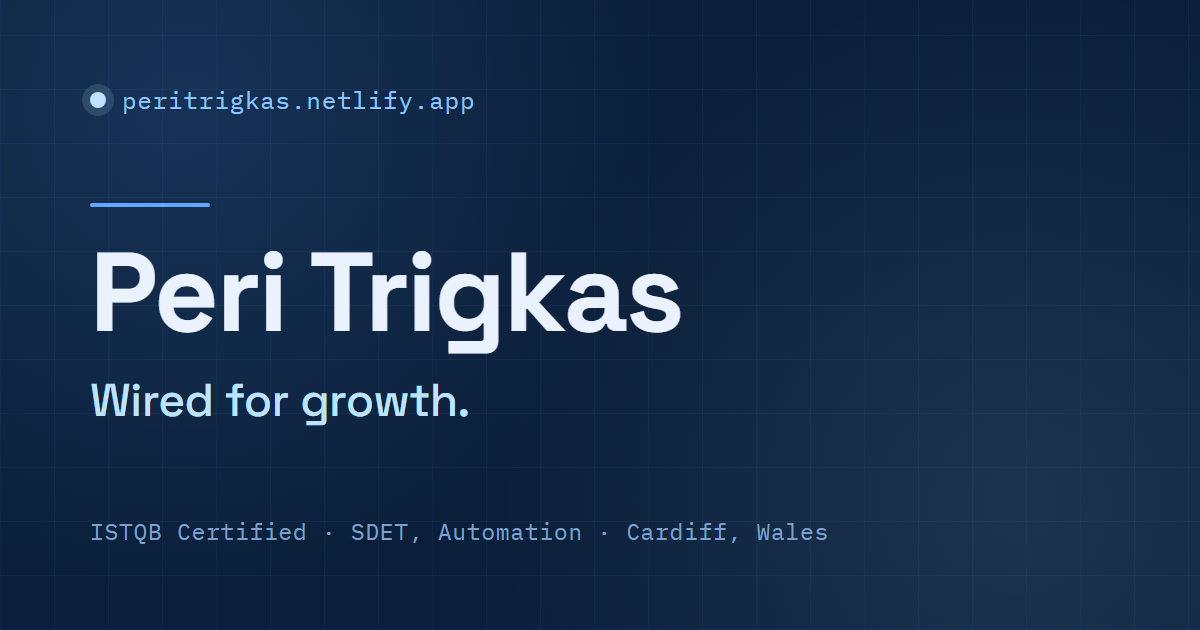
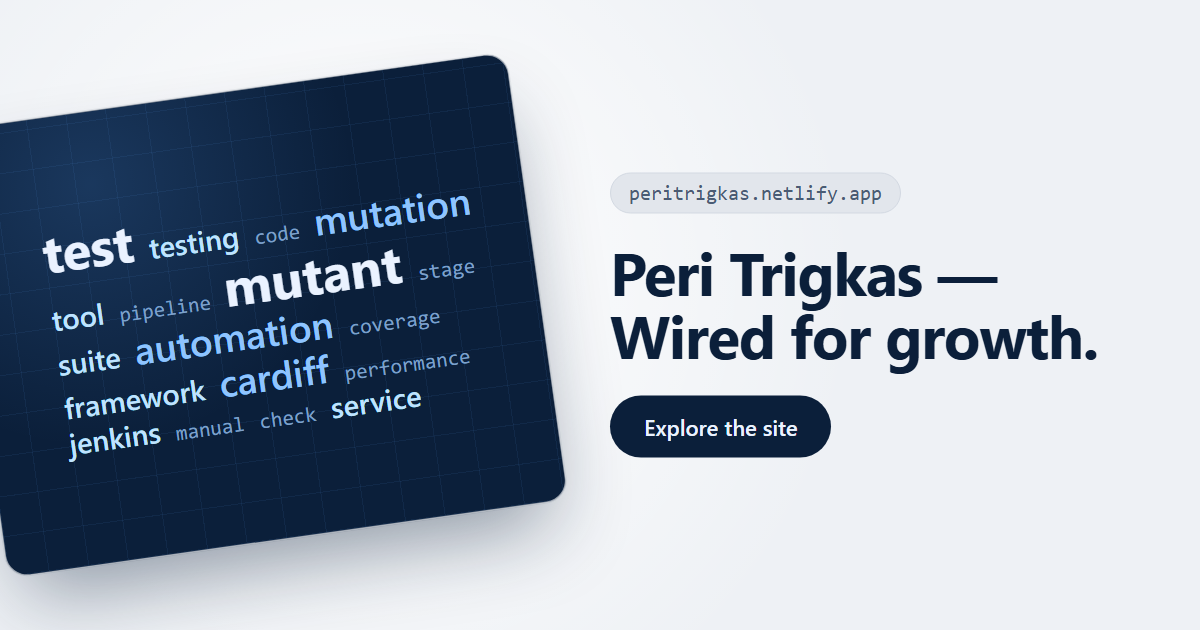
Generate the share card from the site's most-used words
Replaces the static default OG image with a card rendered by a new
build-og script: a word cloud built dynamically from the most frequent
meaningful words across index.html and every post, set in the
opengraph.xyz-style framed layout. Run with `npm run build-og`
(needs headless Chrome/Edge; honours CHROME_PATH).

Claude-Session: https://claude.ai/code/session_015wW7dw16dp6jFcBWztvMvX

diff --git a/scripts/build-og.js b/scripts/build-og.js
@@ -1,0 +1,177 @@
+/*
+ * Regenerates the default social-share card (img/og-default.png).
+ *
+ * The word cloud is built dynamically from the most frequent meaningful words
+ * across index.html and every post in /posts, so the card reflects whatever the
+ * site is actually about at build time.
+ *
+ * Rasterising needs headless Chrome. The script looks for it in the usual
+ * places and honours the CHROME_PATH env var. If none is found it still writes
+ * the intermediate HTML (scripts/.og-card.html) and prints how to finish.
+ *
+ * Usage: npm run build-og
+ */
+const fs = require('fs');
+const path = require('path');
+const { execFileSync } = require('child_process');
+
+const ROOT = path.resolve(__dirname, '..');
+const POSTS_DIR = path.join(ROOT, 'posts');
+const OUT_PNG = path.join(ROOT, 'img', 'og-default.png');
+const TMP_HTML = path.join(__dirname, '.og-card.html');
+const WORD_COUNT = 18;
+const SITE_HOST = 'peritrigkas.netlify.app';
+const HEADLINE = 'Peri Trigkas — Wired for growth.';
+const BUTTON_TEXT = 'Explore the site';
+
+// Words that are common but say nothing about the subject.
+const STOP_WORDS = new Set(
+  (
+    'the a an and or but if then else of to in on at for with by from as is are was ' +
+    'were be been being it its this that these those i you he she they we my your his ' +
+    'her their our me him us them so not no yes do does did done have has had having ' +
+    'will would can could should may might must shall about into over under out up ' +
+    'down off than too very just also more most some any all each every other another ' +
+    'such own same few new like via still per across around back onto what which who ' +
+    'whom whose when where why how there here one two three actually genuinely really ' +
+    'something anything thing things rather instead before after while because during ' +
+    'through against between within without been being able well much many lot lots ' +
+    'kind sort stuff bit way ways going gets getting goes went come came make makes ' +
+    'made take takes took need needs first second next last time times year years ' +
+    'work works working worth good great better best usually often sometimes always ' +
+    'never once nine says said tell told wrote written read seen saw look looks looking ' +
+    'real actual thats theres youre dont wont cant havent isnt everything nothing ' +
+    'someone anyone everyone somewhere anywhere everywhere point points part parts'
+  ).split(/\s+/)
+);
+
+function collectText() {
+  let text = '';
+  const idx = fs.readFileSync(path.join(ROOT, 'index.html'), 'utf-8');
+  text += ' ' + idx
+    .replace(/<script[\s\S]*?<\/script>/g, ' ')
+    .replace(/<style[\s\S]*?<\/style>/g, ' ')
+    .replace(/<[^>]+>/g, ' ');
+  for (const file of fs.readdirSync(POSTS_DIR).filter((f) => f.endsWith('.md'))) {
+    text += ' ' + fs.readFileSync(path.join(POSTS_DIR, file), 'utf-8').replace(/^---[\s\S]*?---/, ' ');
+  }
+  return text;
+}
+
+function topWords(text, limit) {
+  const counts = new Map();
+  const normalised = text.toLowerCase().replace(/ci\/cd/g, 'cicd').replace(/[^a-z\s-]/g, ' ');
+  for (let word of normalised.split(/\s+/)) {
+    word = word.replace(/^-+|-+$/g, '');
+    if (word.length < 4 || STOP_WORDS.has(word)) continue;
+    counts.set(word, (counts.get(word) || 0) + 1);
+  }
+  // Fold simple plurals into their singular ("tests" -> "test").
+  for (const word of [...counts.keys()]) {
+    if (word.endsWith('s') && counts.has(word.slice(0, -1))) {
+      counts.set(word.slice(0, -1), counts.get(word.slice(0, -1)) + counts.get(word));
+      counts.delete(word);
+    }
+  }
+  return [...counts.entries()]
+    .sort((a, b) => b[1] - a[1])
+    .slice(0, limit)
+    .map(([word]) => (word === 'cicd' ? 'CI/CD' : word));
+}
+
+// Interleave sizes so big words are spread through the cloud rather than clumped.
+function tierFor(index) {
+  const pattern = [1, 3, 4, 2, 3, 4, 1, 4, 3, 2, 4, 3, 2, 4, 3, 4, 4, 3];
+  return pattern[index % pattern.length];
+}
+
+function renderCardHtml(words) {
+  const spans = words
+    .map((w, i) => `<span class="w${tierFor(i)}">${w}</span>`)
+    .join('\n      ');
+
+  return `<!DOCTYPE html><html><head><meta charset="UTF-8">
+<link href="https://fonts.googleapis.com/css2?family=Space+Grotesk:wght@500;600;700&family=IBM+Plex+Mono:wght@400;500&display=swap" rel="stylesheet">
+<style>
+  *{margin:0;box-sizing:border-box;}
+  html,body{width:1200px;height:630px;overflow:hidden;}
+  body{background:#eef1f5;font-family:'Space Grotesk','Segoe UI',sans-serif;position:relative;}
+  body::before{content:"";position:absolute;inset:0;background:radial-gradient(circle at 30% 45%, #ffffff 0, rgba(255,255,255,0) 55%);}
+  .card{
+    position:absolute;left:-26px;top:50%;transform:translateY(-50%) rotate(-8deg);
+    width:566px;height:452px;border-radius:22px;
+    background:#0B1F3A;border:1px solid rgba(255,255,255,0.6);
+    box-shadow:0 40px 80px -20px rgba(11,31,58,0.45), 0 0 0 1px rgba(11,31,58,0.06);
+    padding:38px 40px 38px 78px;overflow:hidden;
+  }
+  .card::before{content:"";position:absolute;inset:0;
+    background-image:
+      radial-gradient(circle at 24% 16%, rgba(95,168,255,0.18) 0, transparent 46%),
+      repeating-linear-gradient(0deg, rgba(95,168,255,0.07) 0 1px, transparent 1px 40px),
+      repeating-linear-gradient(90deg, rgba(95,168,255,0.07) 0 1px, transparent 1px 40px);}
+  .cloud{position:relative;display:flex;flex-wrap:wrap;align-content:center;align-items:baseline;gap:6px 15px;height:100%;}
+  .cloud span{line-height:1;white-space:nowrap;}
+  .w1{font-size:52px;font-weight:700;color:#EAF2FF;}
+  .w2{font-size:38px;font-weight:600;color:#8FC4FF;}
+  .w3{font-size:29px;font-weight:600;color:#BFE3FF;}
+  .w4{font-size:21px;font-family:'IBM Plex Mono',monospace;color:#7FA0C9;}
+  .right{position:absolute;right:70px;top:50%;transform:translateY(-50%);width:520px;}
+  .pill{display:inline-block;font-family:'IBM Plex Mono',monospace;font-size:20px;color:#4a5b74;
+    background:#e2e6ec;border:1px solid #d3d9e2;border-radius:999px;padding:8px 18px;margin-bottom:26px;}
+  h1{font-size:60px;font-weight:700;letter-spacing:-0.02em;line-height:1.05;color:#0B1F3A;margin-bottom:30px;}
+  .btn{display:inline-block;background:#0B1F3A;color:#EAF2FF;font-size:22px;font-weight:600;border-radius:999px;padding:16px 34px;}
+</style></head><body>
+  <div class="card"><div class="cloud">
+      ${spans}
+  </div></div>
+  <div class="right">
+    <span class="pill">${SITE_HOST}</span>
+    <h1>${HEADLINE}</h1>
+    <span class="btn">${BUTTON_TEXT}</span>
+  </div>
+</body></html>
+`;
+}
+
+function findChrome() {
+  const candidates = [
+    process.env.CHROME_PATH,
+    'C:/Program Files/Google/Chrome/Application/chrome.exe',
+    'C:/Program Files (x86)/Google/Chrome/Application/chrome.exe',
+    'C:/Program Files (x86)/Microsoft/Edge/Application/msedge.exe',
+    '/Applications/Google Chrome.app/Contents/MacOS/Google Chrome',
+    '/usr/bin/google-chrome',
+    '/usr/bin/chromium',
+    '/usr/bin/chromium-browser',
+  ].filter(Boolean);
+  return candidates.find((p) => fs.existsSync(p)) || null;
+}
+
+function run() {
+  const words = topWords(collectText(), WORD_COUNT);
+  fs.writeFileSync(TMP_HTML, renderCardHtml(words), 'utf-8');
+  console.log(`word cloud: ${words.join(', ')}`);
+
+  const chrome = findChrome();
+  if (!chrome) {
+    console.log(`\nNo Chrome/Edge found. Wrote ${path.relative(ROOT, TMP_HTML)}.`);
+    console.log('Set CHROME_PATH or render it manually:');
+    console.log(`  chrome --headless --screenshot="${OUT_PNG}" --window-size=1200,630 "${TMP_HTML}"`);
+    return;
+  }
+
+  execFileSync(chrome, [
+    '--headless',
+    '--no-sandbox',
+    '--disable-gpu',
+    '--hide-scrollbars',
+    '--force-device-scale-factor=1',
+    '--window-size=1200,630',
+    `--screenshot=${OUT_PNG}`,
+    TMP_HTML,
+  ], { stdio: 'ignore' });
+  fs.unlinkSync(TMP_HTML);
+  console.log(`wrote ${path.relative(ROOT, OUT_PNG)}`);
+}
+
+run();
